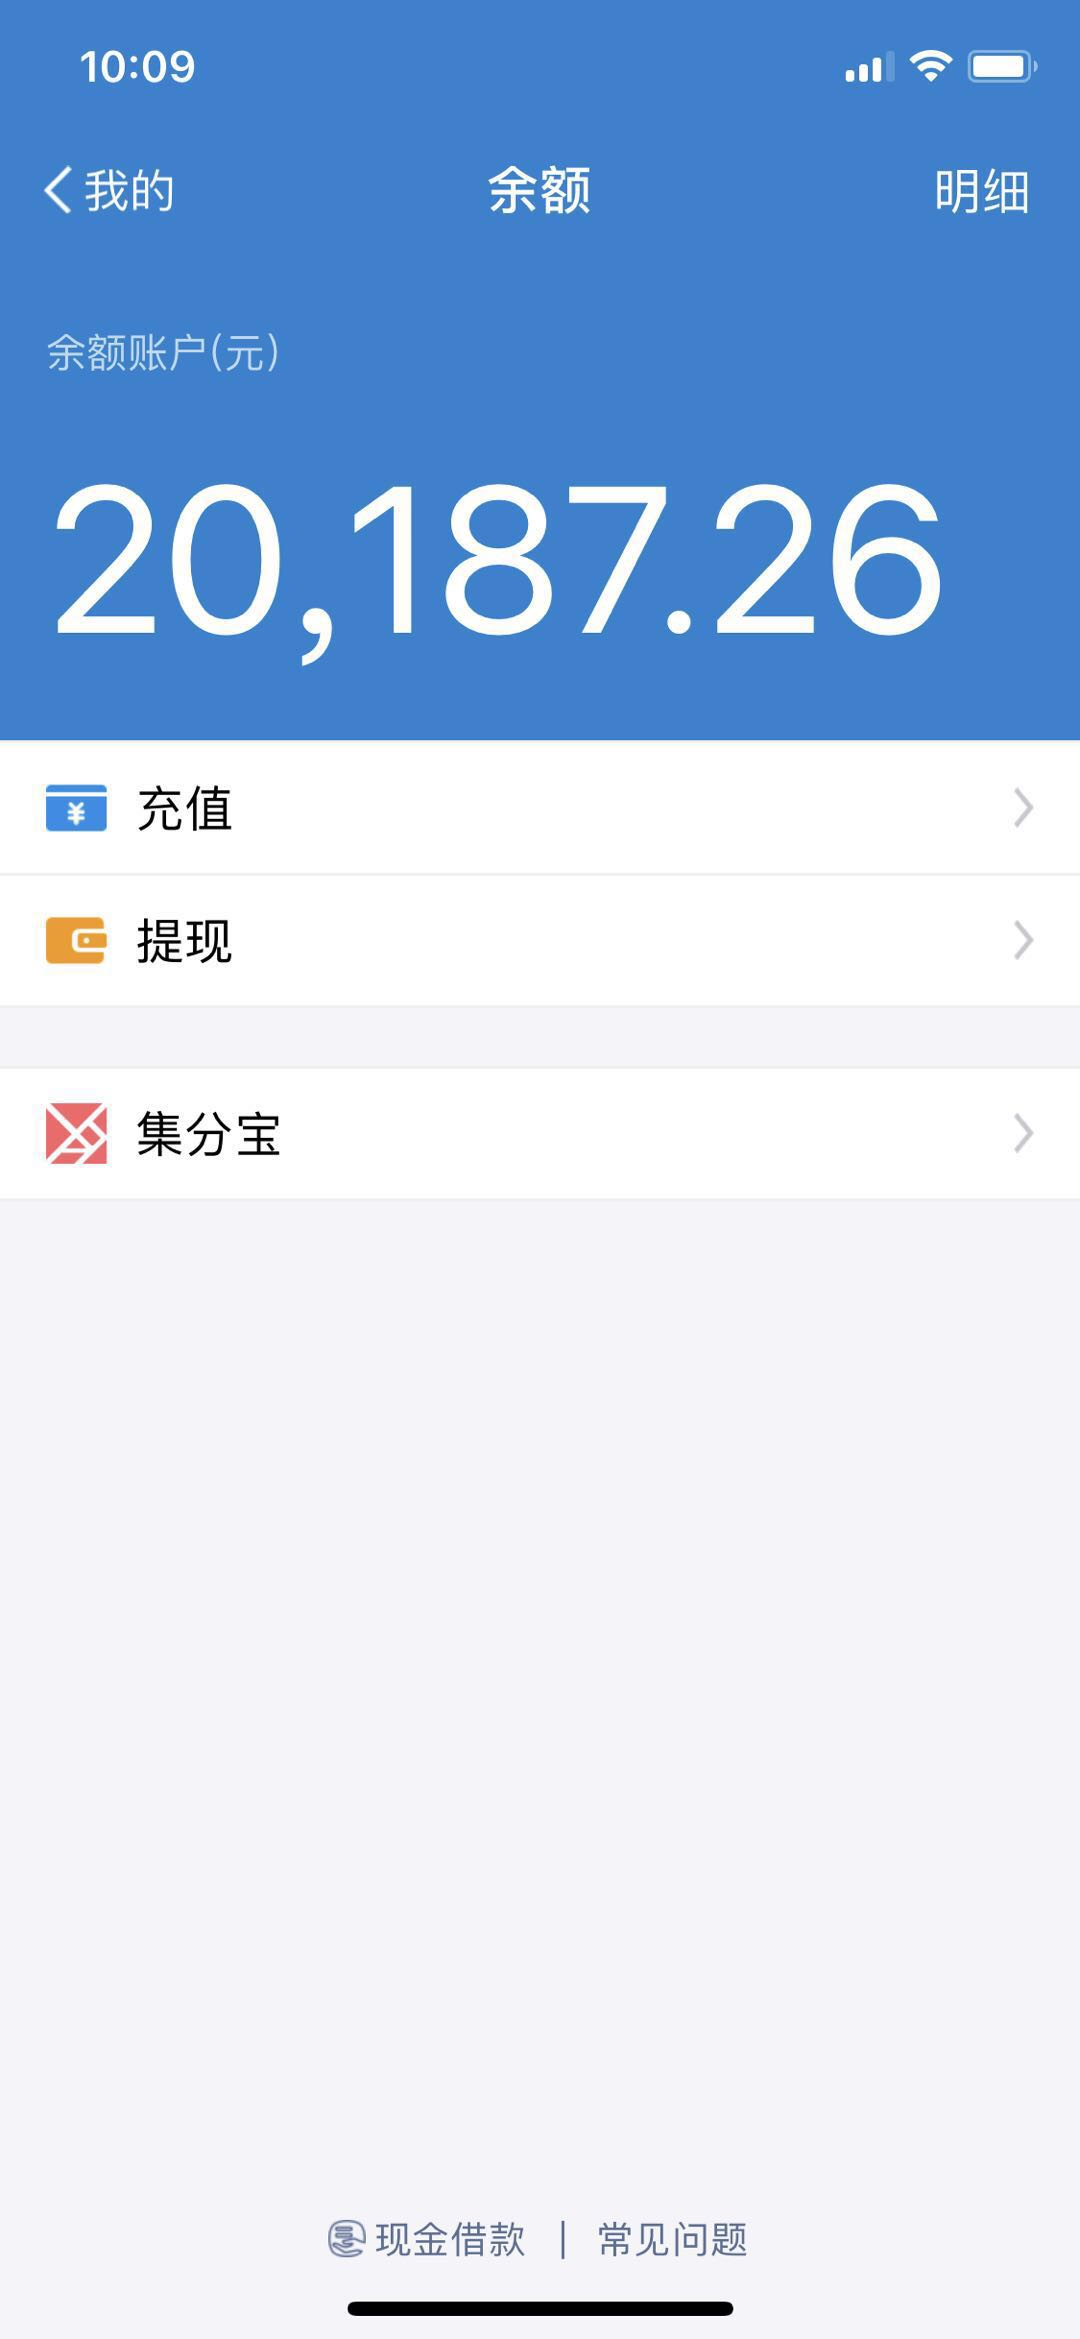
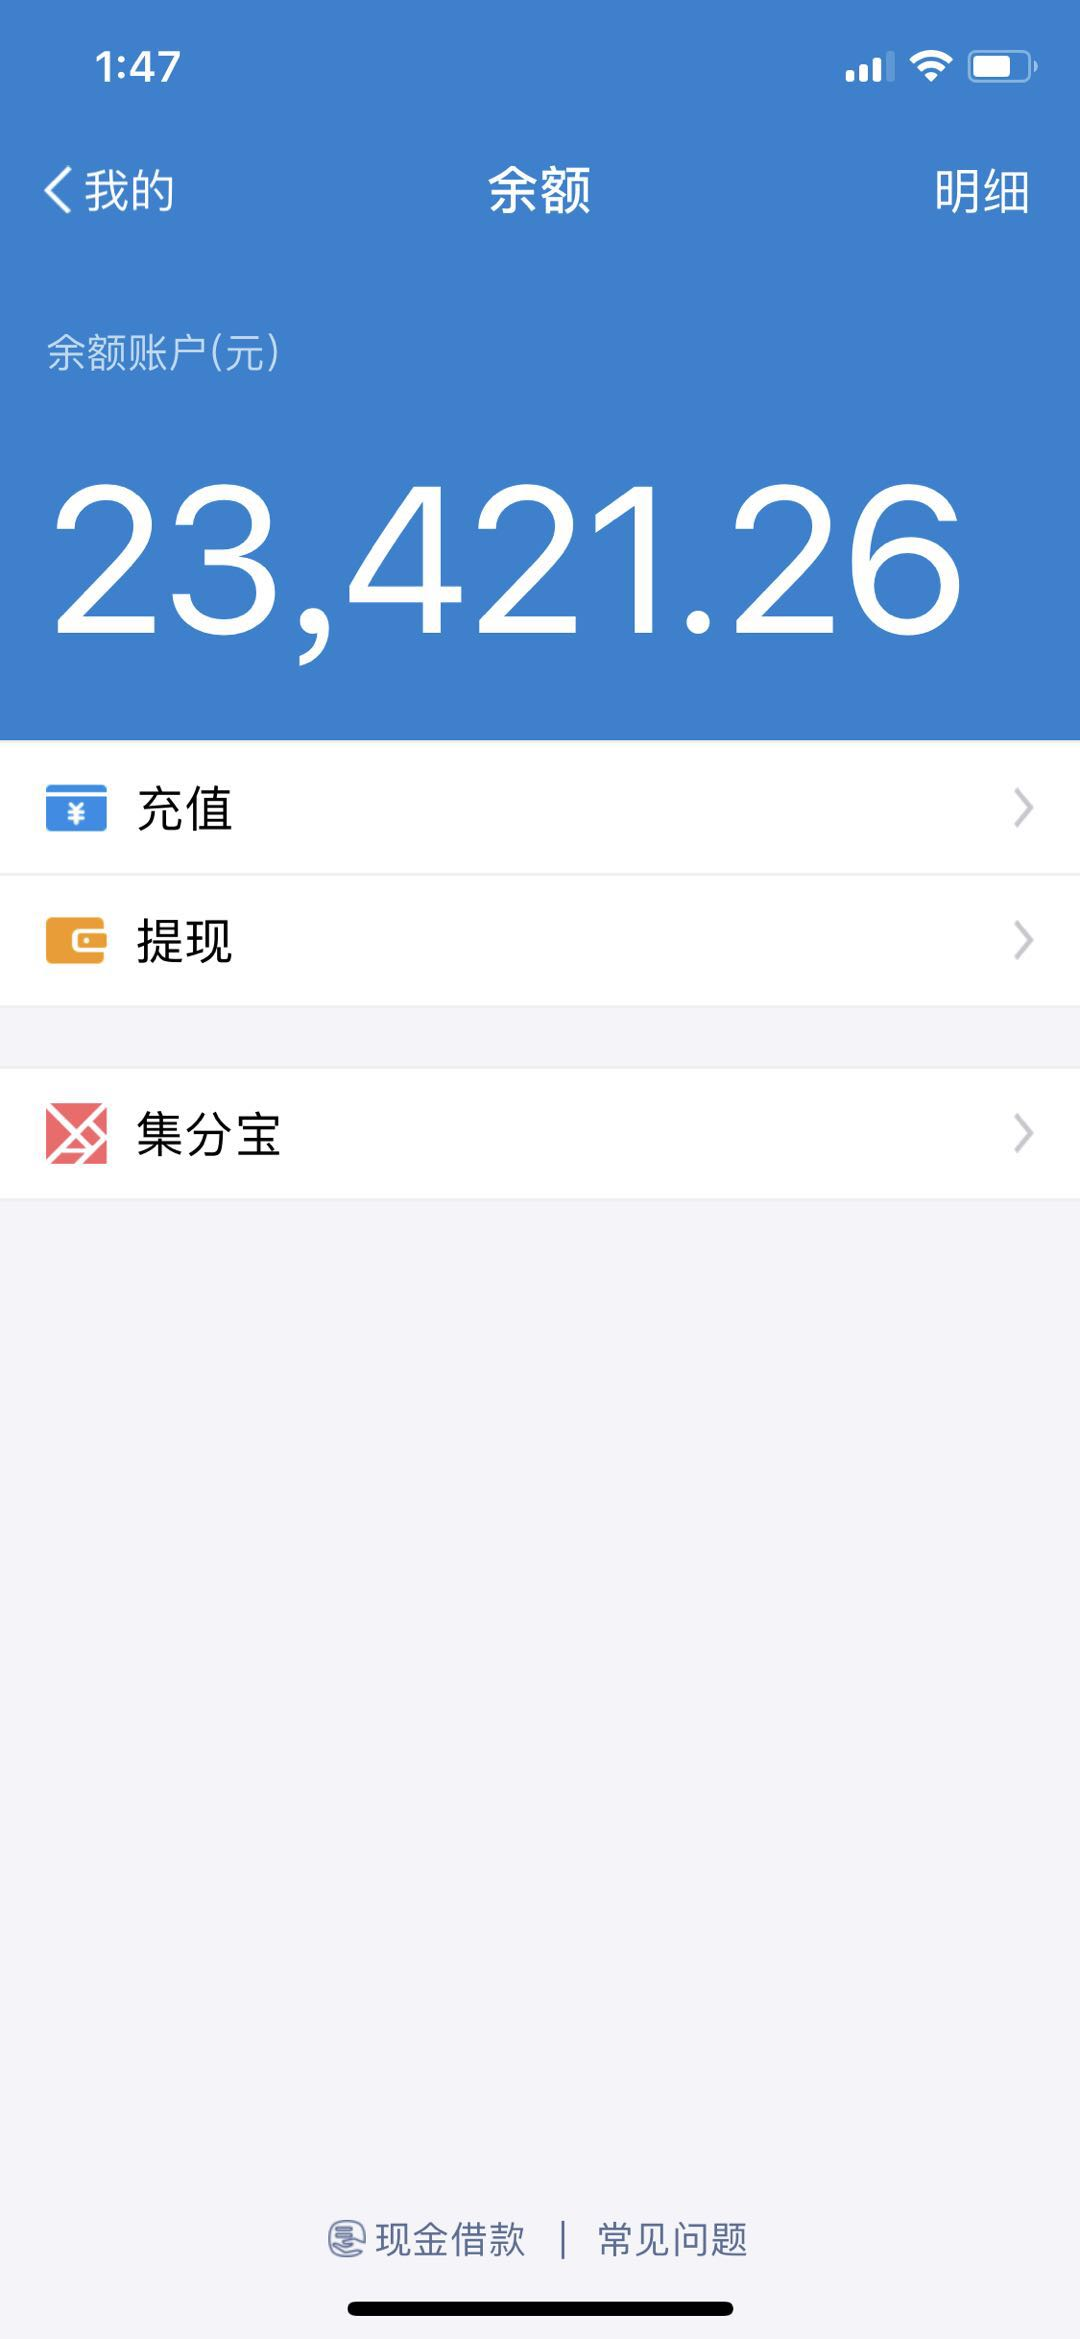
income: 杭NodeParty 3234元 20171123 组织赞助 10月份NodeParty门票收入

diff --git a/README.md b/README.md
@@ -1,6 +1,6 @@
 #  NodeParty 开源基金会运作草案 
 
-![](https://img.shields.io/badge/余额-20187.26%20元-green.svg) ![](https://img.shields.io/badge/赞助笔数-34%20笔-green.svg) ![](https://img.shields.io/badge/待入账-3000.00%20元-blue.svg) 
+![](https://img.shields.io/badge/余额-23421.26%20元-green.svg) ![](https://img.shields.io/badge/赞助笔数-35%20笔-green.svg) ![](https://img.shields.io/badge/待入账-3000.00%20元-blue.svg) 
 
 ## 组织介绍
 
@@ -131,7 +131,7 @@ Commit Message 需按照此格式：
 | @m31271n | 110.00 | 2017-08-21 | 个人赞助 | [#39](https://github.com/Hangzhou-Node-Party/JS-OpenSource-Foundation/issues/39) |
 | @SunilWang | 288.88 | 2017-08-21 | 个人赞助 | [#38](https://github.com/Hangzhou-Node-Party/JS-OpenSource-Foundation/issues/38) |
 | @xinyu198736 | 234.00 | 2017-08-30 | 个人赞助 | [#41](https://github.com/Hangzhou-Node-Party/JS-OpenSource-Foundation/issues/41) |
-
+| @杭NodeParty讲师团 | 3234.00 | 2017-10-23 | 组织赞助 | [#45](https://github.com/Hangzhou-Node-Party/JS-OpenSource-Foundation/issues/45) |
 感谢以下企业的赞助：
 
 ![](https://img.shields.io/badge/100offer-3000元-green.svg)
@@ -176,7 +176,7 @@ Commit Message 需按照此格式：
 <!-- money start -->
 | 款项 | 金额 |
 |------|------|
-| **总额** | 20187.26 元 |
+| **总额** | 23421.26 元 |
 | **待入账** | 3000.00 元 |
 <!-- money end -->
 

diff --git a/INCOMING.md b/INCOMING.md
@@ -35,3 +35,4 @@
 | @m31271n | 110.00 | 2017-08-21 | 个人赞助 | [#39](https://github.com/Hangzhou-Node-Party/JS-OpenSource-Foundation/issues/39) |
 | @SunilWang | 288.88 | 2017-08-21 | 个人赞助 | 北京Node-Party成员祝杭州Node-Party顺利 288.88元 支付宝-Sunil |
 | @xinyu198736 | 234.00 | 2017-08-30 | 个人赞助 | 8月29日，gitchat介绍基金会的分享，收入 234 元。 |
+| @杭NodeParty讲师团 | 3234.00 | 2017-10-23 | 组织赞助 | [#45](https://github.com/Hangzhou-Node-Party/JS-OpenSource-Foundation/issues/45) |
